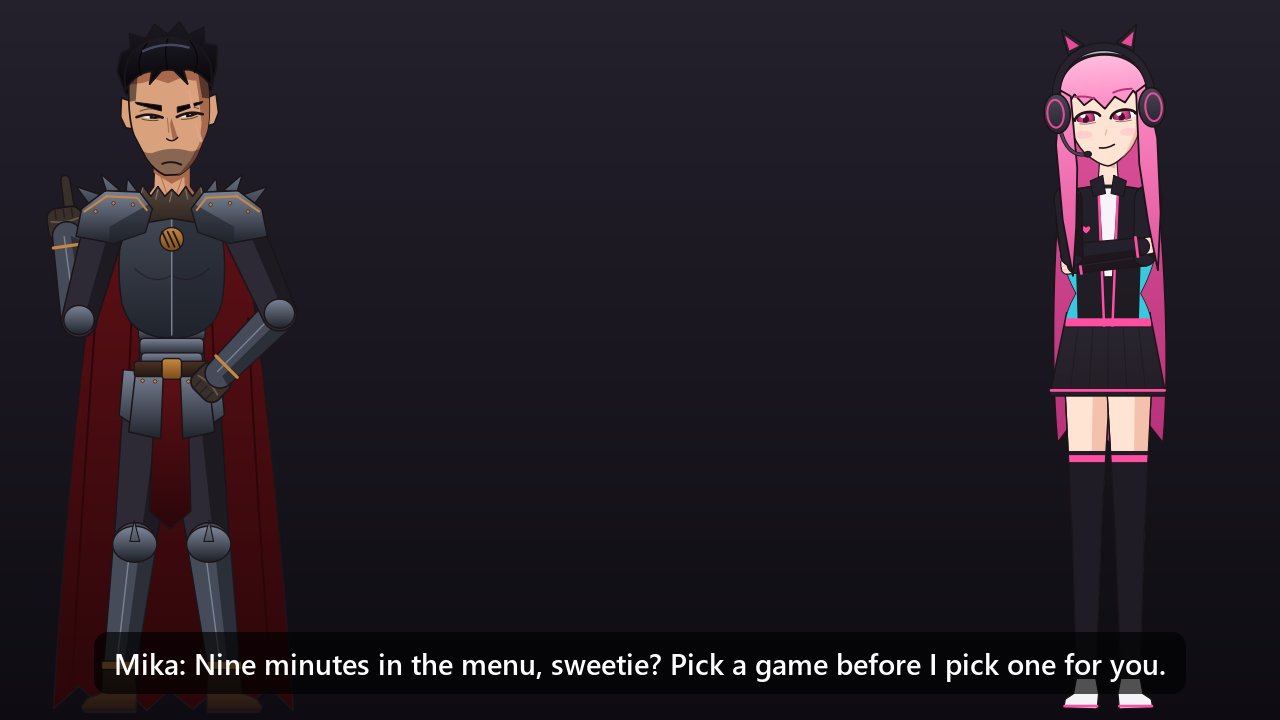
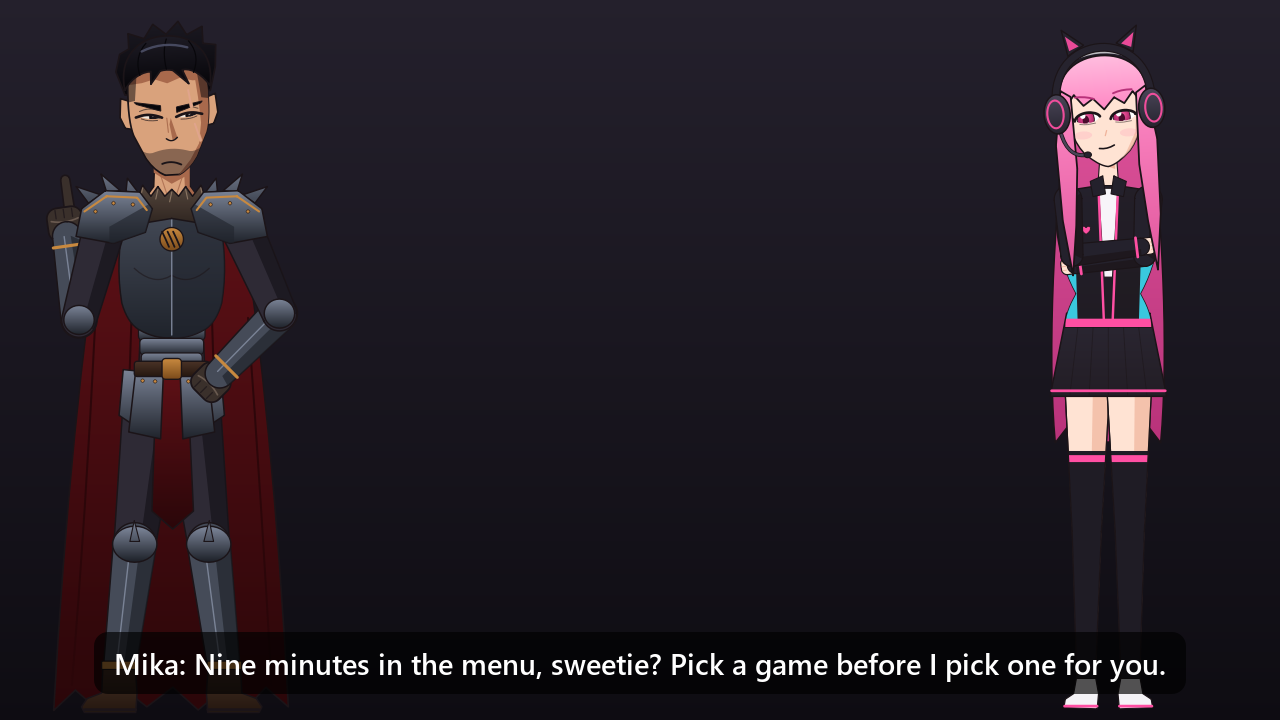
make_images.py: the same pictures every run, so only real look changes reach GitHub

diff --git a/make_images.py b/make_images.py
@@ -2,6 +2,7 @@
 Run it after changing how they look:  .venv\\Scripts\\python make_images.py
 """
 import os
+import random
 import sys
 from pathlib import Path
 
@@ -60,6 +61,7 @@ def lineup(chars, name, scale=1.2):
 
 
 def main_images():
+    random.seed(7)  # same pictures every run (the characters' random head start), so only real changes reach GitHub
     OUT.mkdir(parents=True, exist_ok=True)
     pose(Vorn("warlord"), "smug").render(256 / 340, bust=True).save(str(OUT / "icon-vorn.png"))
     pose(Mika("jacket"), "smug").render(256 / 340, bust=True).save(str(OUT / "icon-mika.png"))
